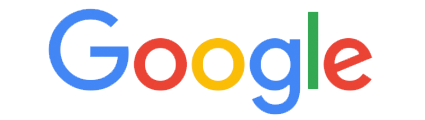
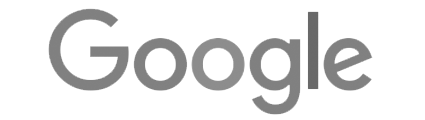
Modify 'images' to go with the design

Changed region(s): [[0.0918, 0.075, 0.8871, 0.975]]

diff --git a/index.html b/index.html
@@ -10,7 +10,7 @@
   </head>
   <body>
     <header>
-      <a id="navLogo" href="./index.html"><img src="./img/logo.png" alt="Creative courses logo"></a>
+      <a id="navLogo" href="./index.html"><img src="./img/logo.svg" alt="Creative courses logo"></a>
       <nav>
         <div id="burger">
           <span></span>
@@ -40,7 +40,7 @@
     <section id="main">
       <h1>Welcome to</h1>
       <div id="landImg">
-          <img id="landLogo" src="./img/mainTxt.jpg" alt="Creative courses">
+          <img id="landLogo" src="./img/logoLand.png" alt="Creative courses">
       </div>
       <div class="box">
         <p>Take your skills to the next level and turn your passion into a living.</p>
@@ -58,27 +58,27 @@
       </div>
       <div id="courseList">
         <div class="courseBox">
-          <img src="./img/icoDummy.png" alt="Concept art icon">
+          <img src="./img/concept.png" alt="Concept art icon">
           <h3>Concept Art</h3>
           <p>Learn the basics of 3D & how to create stunning artworks using Blender & Photoshop.</p>
         </div>
         <div class="courseBox">
-          <img src="./img/icoDummy.png" alt="Cinematic music icon">
+          <img src="./img/cineMusic.png" alt="Cinematic music icon">
           <h3>Cinematic Music</h3>
           <p>Learn how to compose, orchestrate and produce cinematic tracks effortlessly.</p>
         </div>
         <div class="courseBox">
-          <img src="./img/icoDummy.png" alt="Concept art icon">
+          <img src="./img/mixing.png" alt="Concept art icon">
           <h3>Mixing Workshop</h3>
           <p>An Introduction To The Workflow of an Orchestral Mixing Engineer.</p>
         </div>
         <div class="courseBox">
-          <img src="./img/icoDummy.png" alt="Concept art icon">
+          <img src="./img/cinematic.png" alt="Concept art icon">
           <h3>Cinematic Design</h3>
           <p>Start Generating Ideas, Designing and Painting Digital Artworks.</p>
         </div>
         <div class="courseBox">
-          <img src="./img/icoDummy.png" alt="Concept art icon">
+          <img src="./img/scifi.png" alt="Concept art icon">
           <h3>Sci-Fi Sound Design</h3>
           <p>Learn how to make cinematic SFX like a pro! From zero to sci-fi sound design hero.</p>
         </div>
@@ -109,7 +109,7 @@
 
     <footer>
       <div id="footLogo">
-        <img src="./img/logo.png" alt="Creative Courses">
+        <img src="./img/logo.svg" alt="Creative Courses">
       </div>
       <div>
         <p>© 2022 – <a id="copyright" href="https://github.com/Retky/CreativeCourses-Page#acknowledgments">All Rights Reserved*</a> </p>

diff --git a/about.html b/about.html
@@ -12,7 +12,7 @@
   </head>
   <body>
     <header>
-      <a id="navLogo" href="./index.html"><img src="./img/logo.png" alt="Creative courses logo"></a>
+      <a id="navLogo" href="./index.html"><img src="./img/logo.svg" alt="Creative courses logo"></a>
       <nav>
         <div id="burger">
           <span></span>
@@ -42,7 +42,7 @@
     <section id="about">
       <div id="landImg">
         <h1>About</h1>
-        <img id="landLogo" src="./img/mainTxt.jpg" alt="Creative courses">
+        <img id="landLogo" src="./img/logoLand.png" alt="Creative courses">
       </div>
       <div class="box2">
         <p>The year is 2015. Two young Scandinavian creators & entrepreneurs Arn Andersson & Walid Feghali meet at a composer meet-up in Berlin. Both share the same passion for travelling the world while creating music and art, and teaching others to do the same. They also share their frustrations about the outdated creative industry…. how much time and money they’ve both spent learning how to turn their passion into a sustainable career, and how they dream of offering a modern day creative platform that doesn’t just teach text book theory…
@@ -57,7 +57,7 @@
       <h2>Creative Courses Logo</h2>
       <hr>
       <p> The logo was design using <a href="https://www.tailorbrands.com">tailorbrands</a></p>
-      <img src="./img/logo.png" alt="Creative courses logo">
+      <img src="./img/logo.svg" alt="Creative courses logo">
     </section>
 
     <section id="past">
@@ -93,7 +93,7 @@
 
     <footer>
       <div id="footLogo">
-        <img src="./img/logo.png" alt="Creative Courses">
+        <img src="./img/logo.svg" alt="Creative Courses">
       </div>
       <div>
         <p>© 2022 – <a id="copyright" href="https://github.com/Retky/CreativeCourses-Page#acknowledgments">All Rights Reserved*</a> </p>

diff --git a/css/style.css b/css/style.css
@@ -36,7 +36,8 @@ small {
 }
 
 body {
-  width: 100vw;
+  box-sizing: border-box;
+  width: 100%;
   margin: 0;
   background: #ddd;
   font-family: "Lato", sans-serif;
@@ -134,6 +135,7 @@ header {
 }
 #navDesktop .preview {
   padding: 5px;
+  display: inline-block;
   color: #ec5242;
 }
 @media screen and (min-width: 768px) {
@@ -170,9 +172,7 @@ header {
 }
 
 h1 {
-  color: transparent;
-  -webkit-background-clip: text;
-  background-image: url("../img/mainTxt.jpg");
+  color: #ec5242;
 }
 
 #landImg {
@@ -186,14 +186,6 @@ h1 {
 
 #landLogo {
   width: 100%;
-  -webkit-mask-image: url("../img/logo.png");
-  mask-image: url("../img/logo.png");
-  -webkit-mask-size: contain;
-  mask-size: contain;
-  -webkit-mask-repeat: no-repeat;
-  mask-repeat: no-repeat;
-  -webkit-mask-position: center;
-  mask-position: center;
 }
 
 .box {
@@ -257,7 +249,7 @@ hr {
   background: #c1c1c120;
   box-sizing: border-box;
   width: 100%;
-  padding: 5px 15px;
+  padding: 5px 1px;
   display: flex;
   align-items: center;
   gap: 0.5rem;
@@ -360,7 +352,6 @@ hr {
   text-decoration: none;
 }
 #partnerList img {
-  filter: grayscale(100%);
   width: 100%;
 }
 

diff --git a/sass/style.scss b/sass/style.scss
@@ -38,7 +38,8 @@ small {
 }
 
 body {
-  width: 100vw;
+  box-sizing: border-box;
+  width: 100%;
   margin: 0;
   background: #ddd;
   font-family: 'Lato', sans-serif;
@@ -138,6 +139,7 @@ header {
 
   .preview {
     padding: 5px;
+    display: inline-block;
     color: $orangeC;
 
     @include desktop() {
@@ -173,9 +175,7 @@ header {
 }
 
 h1 {
-  color: transparent;
-  -webkit-background-clip: text;
-  background-image: url('../img/mainTxt.jpg');
+  color: $orangeC;
 }
 
 #landImg {
@@ -188,14 +188,6 @@ h1 {
 
 #landLogo {
   width: 100%;
-  -webkit-mask-image: url('../img/logo.png');
-  mask-image: url('../img/logo.png');
-  -webkit-mask-size: contain;
-  mask-size: contain;
-  -webkit-mask-repeat: no-repeat;
-  mask-repeat: no-repeat;
-  -webkit-mask-position: center;
-  mask-position: center;
 }
 
 .box {
@@ -256,7 +248,7 @@ hr {
   background: #c1c1c120;
   box-sizing: border-box;
   width: 100%;
-  padding: 5px 15px;
+  padding: 5px 1px;
   display: flex;
   align-items: center;
   gap: 0.5rem;
@@ -357,7 +349,6 @@ hr {
   }
 
   img {
-    filter: grayscale(100%);
     width: 100%;
   }
 }

diff --git a/css/about.css b/css/about.css
@@ -94,7 +94,7 @@
   width: 100%;
   height: 100%;
   background-image: url("../img/thumbnail1.jpg");
-  background-size: contain;
+  background-size: cover;
   display: flex;
   flex-direction: column;
   justify-content: center;
@@ -106,7 +106,7 @@
   width: 100%;
   height: 100%;
   background-image: url("../img/thumbnail2.jpg");
-  background-size: contain;
+  background-size: cover;
   display: flex;
   flex-direction: column;
   justify-content: center;

diff --git a/sass/about.scss b/sass/about.scss
@@ -98,7 +98,7 @@
   width: 100%;
   height: 100%;
   background-image: url('../img/thumbnail1.jpg');
-  background-size: contain;
+  background-size: cover;
   display: flex;
   flex-direction: column;
   justify-content: center;
@@ -110,7 +110,7 @@
   width: 100%;
   height: 100%;
   background-image: url('../img/thumbnail2.jpg');
-  background-size: contain;
+  background-size: cover;
   display: flex;
   flex-direction: column;
   justify-content: center;
